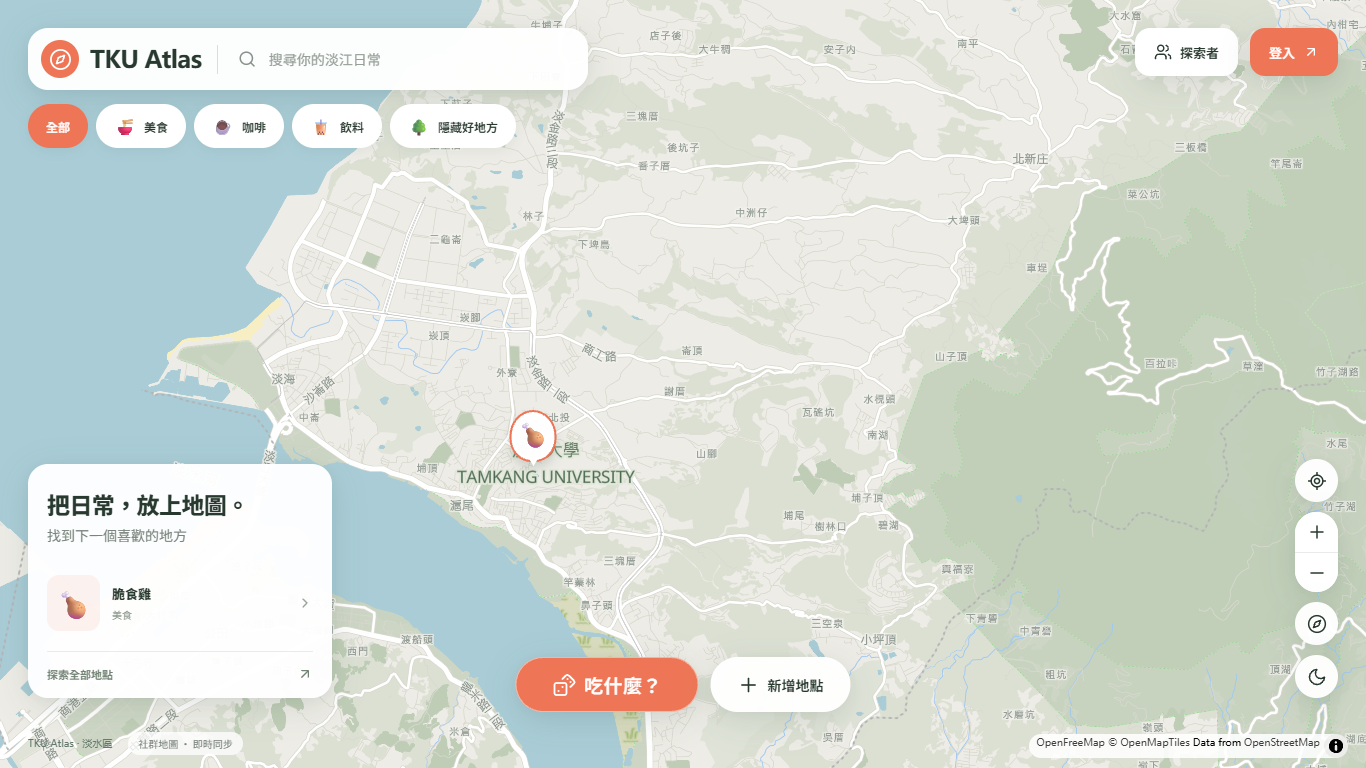
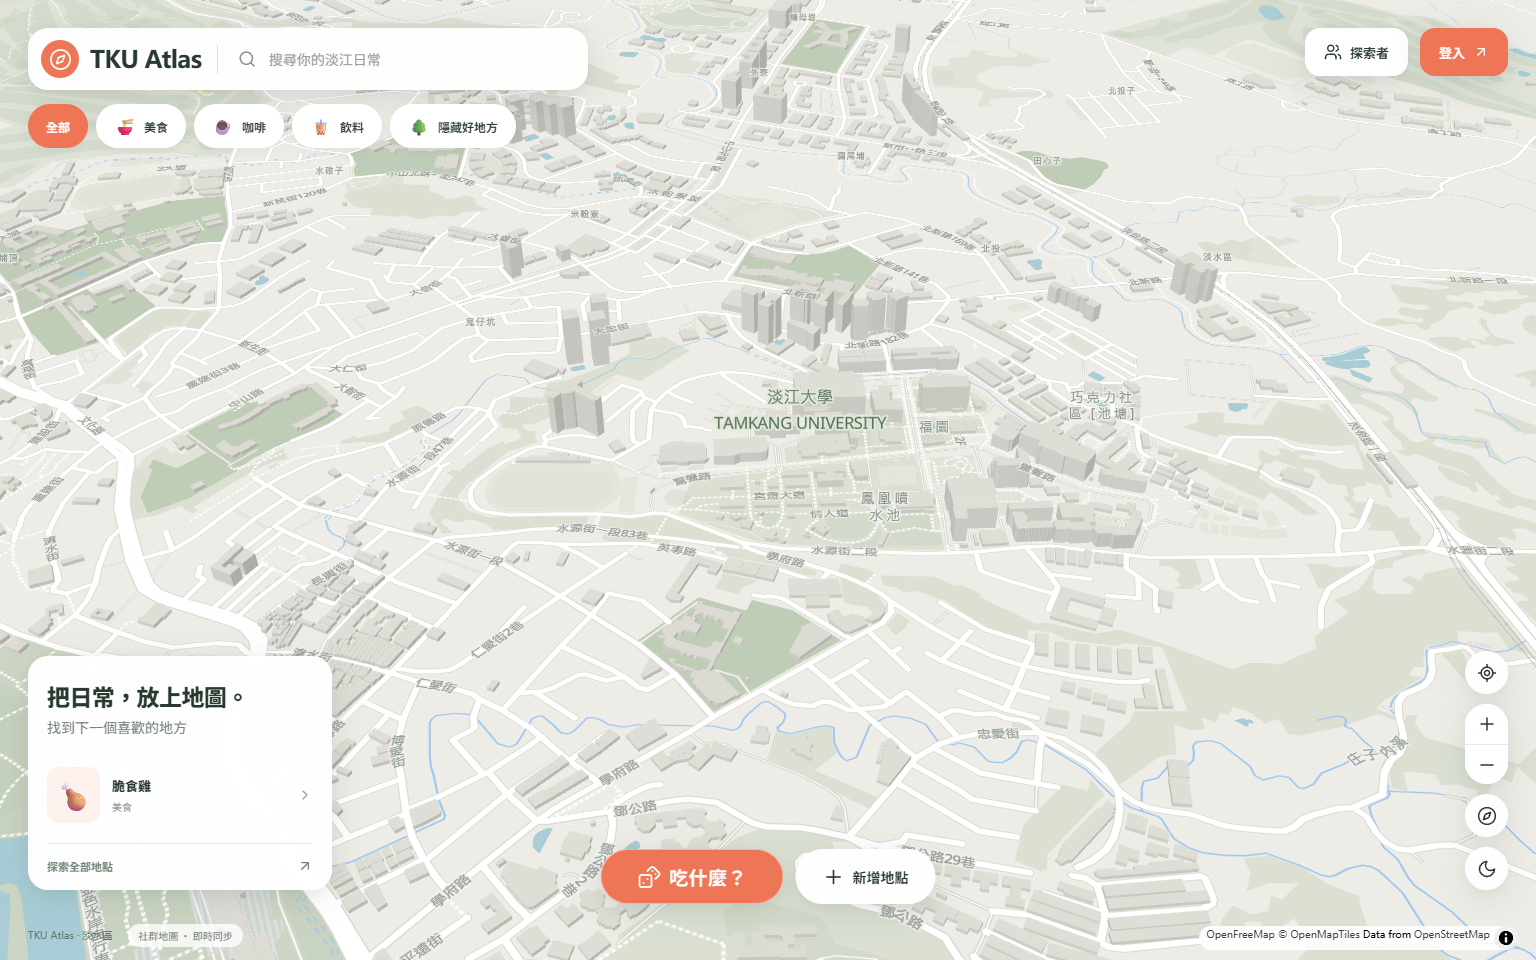
Refresh showcase with live 3D campus screenshots

diff --git a/README.md b/README.md
@@ -6,7 +6,9 @@
 
 > 本倉庫供個人作品集與研究所推甄展示。完整原始碼保存在獨立私有倉庫；本倉庫不包含可部署的網站程式或資料庫設定。網站可公開瀏覽，寫入功能需登入。專案仍在持續驗證，以下區分已實作與已實際驗證的能力。
 
-![TKU Atlas 正式站：淡水區總覽](assets/desktop.png)
+![TKU Atlas 正式站：淡江校園 3D 建築開場畫面](assets/desktop.png)
+
+網站開場採用傾斜視角，呈現淡江校園與周邊的 3D 建築。模型由地圖建築資料擠出呈現，並非逐棟手工建模。
 
 ## 為什麼做這個作品
 
@@ -21,9 +23,15 @@
 - 開場保留淡江校園視角；右側定位按鈕可查看整個淡水區。
 - 提供地點深層連結與桌面／手機版配置。
 
-<img src="assets/mobile.png" alt="TKU Atlas 正式站手機版淡水區總覽" width="320" />
+<img src="assets/mobile.png" alt="TKU Atlas 正式站手機版 3D 建築開場畫面" width="320" />
 
-截圖攝於 2026-10-03 的正式網站，使用桌面與手機尺寸 Chromium；不代表實體 iPhone 或 Android 已通過測試。
+上方開場截圖攝於 2026-10-04 的正式網站，使用桌面（1536×960）與手機尺寸（390×844）Chromium；不代表實體 iPhone 或 Android 已通過測試。
+
+### 淡水全區總覽
+
+按右側定位按鈕可切換至全區總覽，查看完整服務範圍。下圖為 2026-10-03 的正式站截圖。
+
+![TKU Atlas 淡水區總覽](assets/tamsui-overview.png)
 
 ## 技術與設計重點
 
